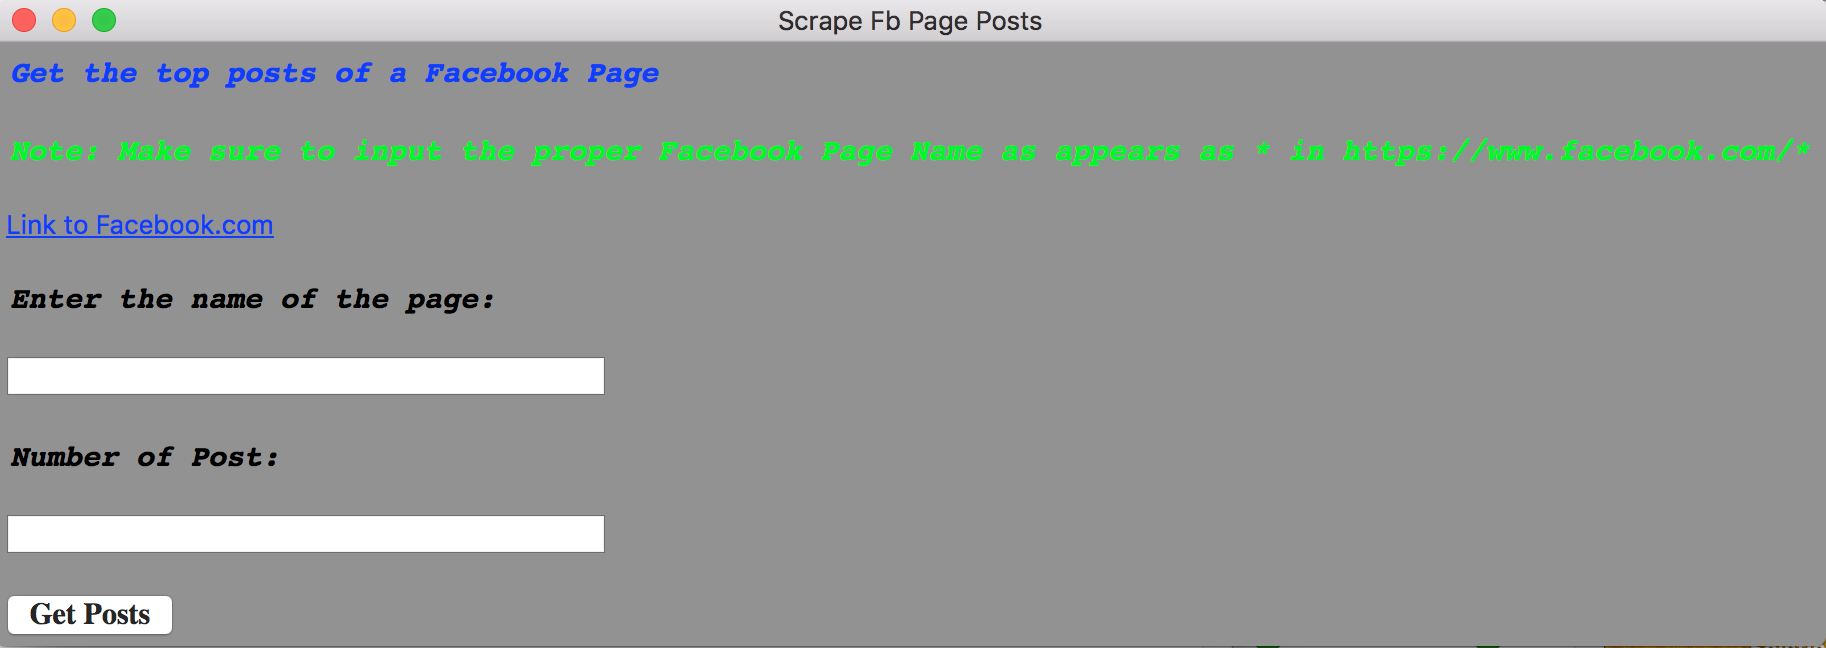
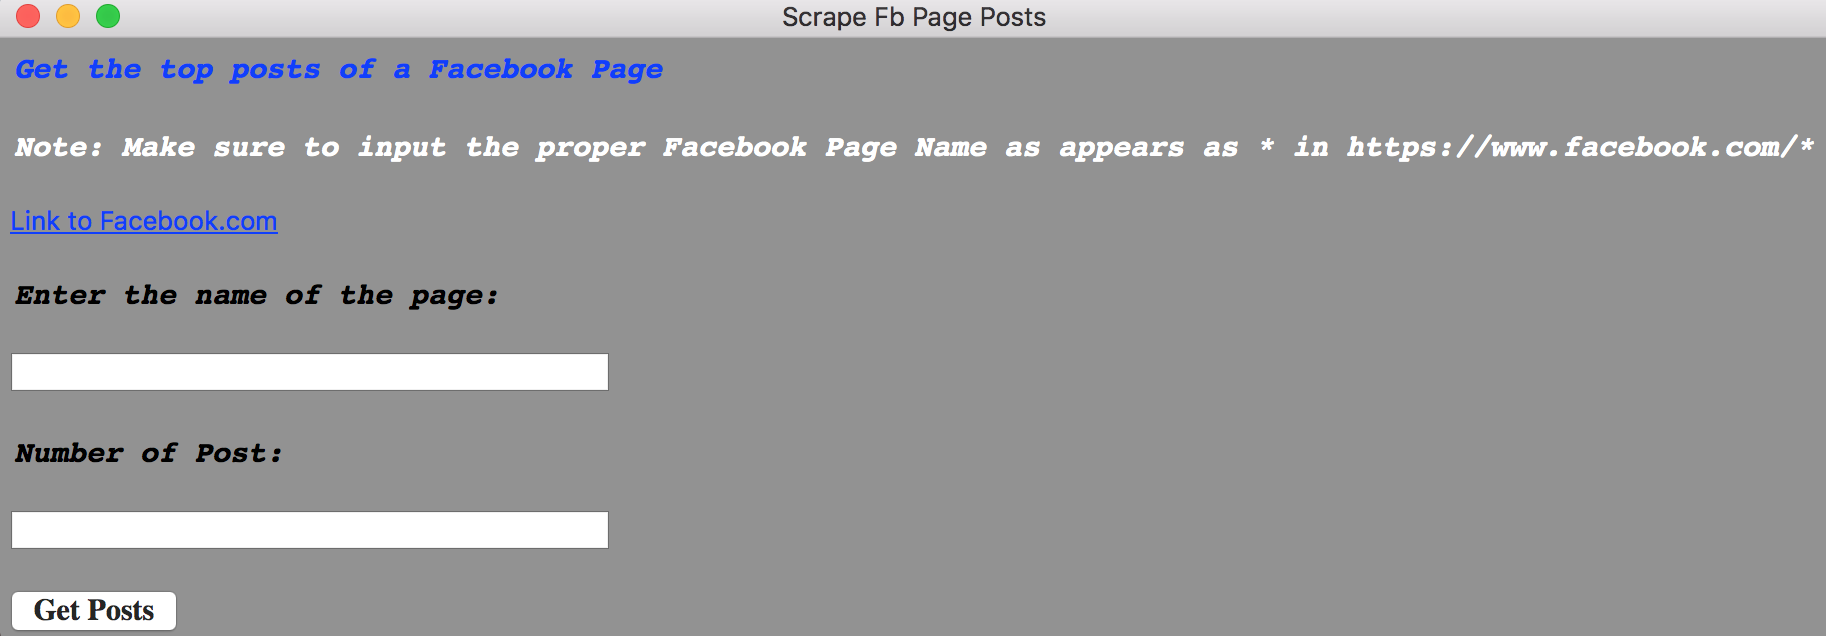
modified gui

diff --git a/GetFbPostGUI/GUI.py b/GetFbPostGUI/GUI.py
@@ -33,7 +33,7 @@ class ScrapeFbdataGUI(wx.Frame):
         self.header2 = wx.StaticText(self.panel,
                                      label="Note: Make sure to input the proper Facebook Page Name as appears as * in https://www.facebook.com/*")
         self.header2.SetFont(wx.Font(15, wx.SWISS, wx.ITALIC, wx.BOLD, False, 'Courier'))
-        self.header2.SetForegroundColour("green")
+        self.header2.SetForegroundColour("white")
         self.page = wx.StaticText(self.panel,
                                     label="Enter the name of the page:")
         self.page.SetFont(wx.Font(15, wx.SWISS, wx.ITALIC, wx.BOLD, False, 'Courier'))
